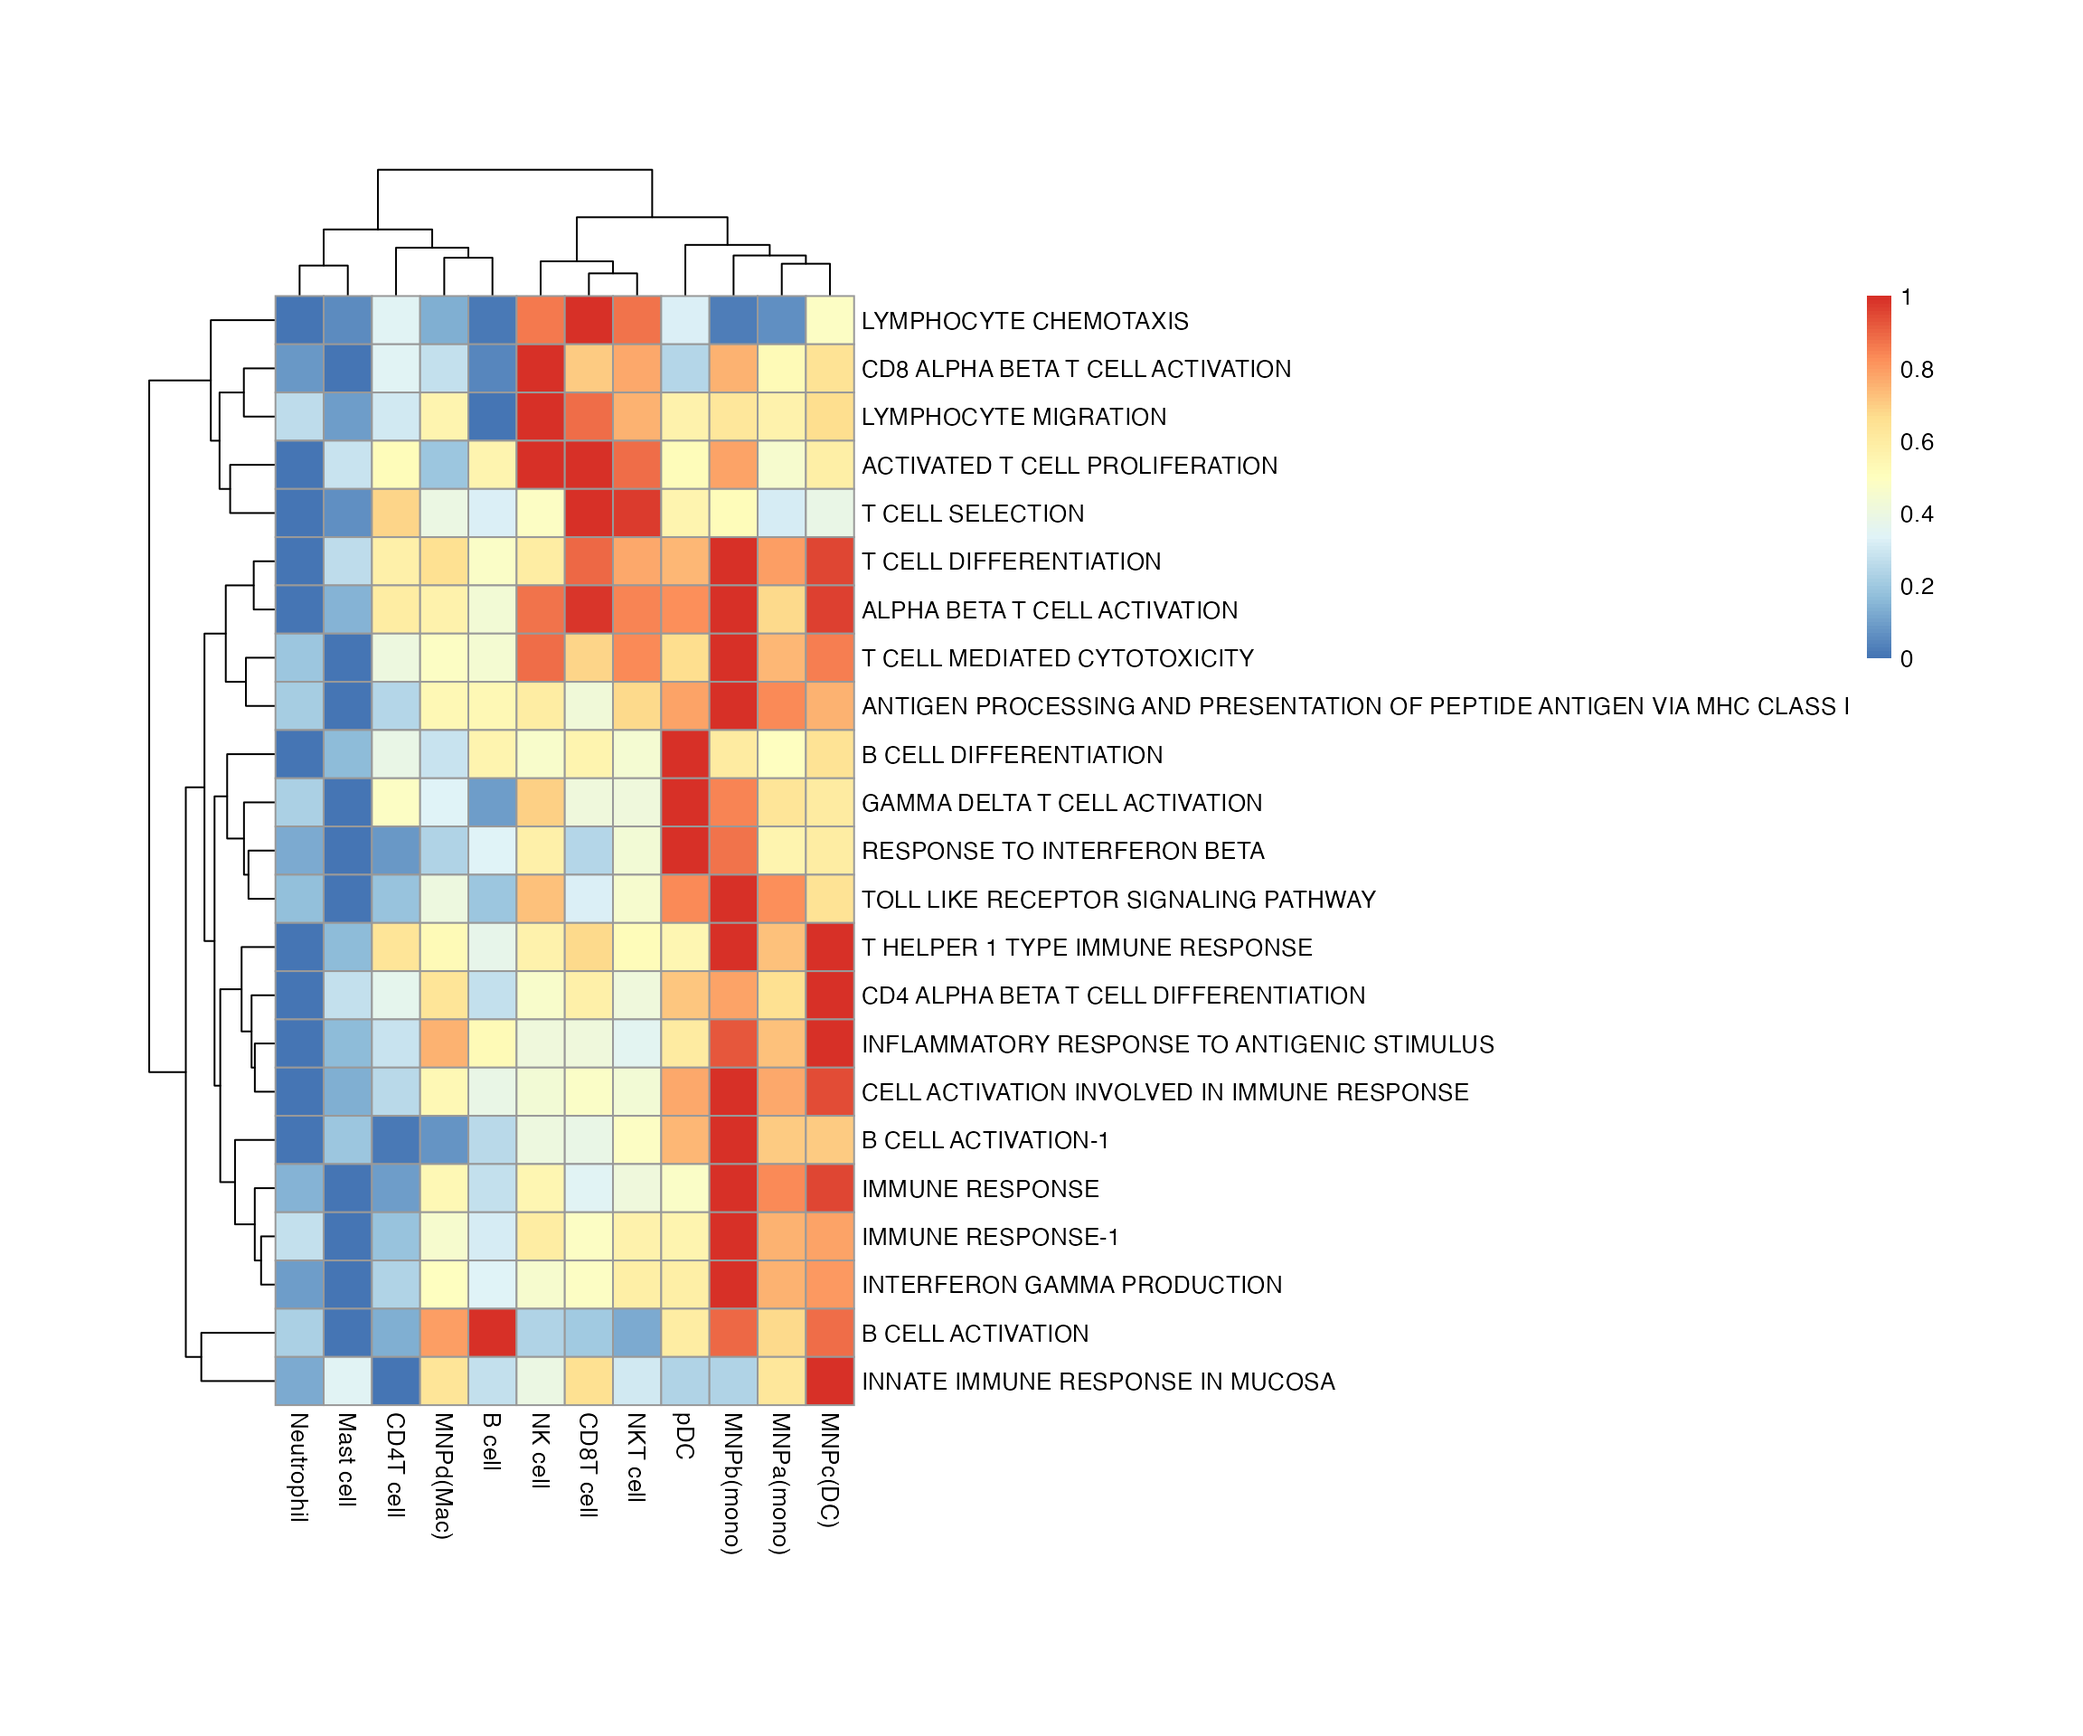
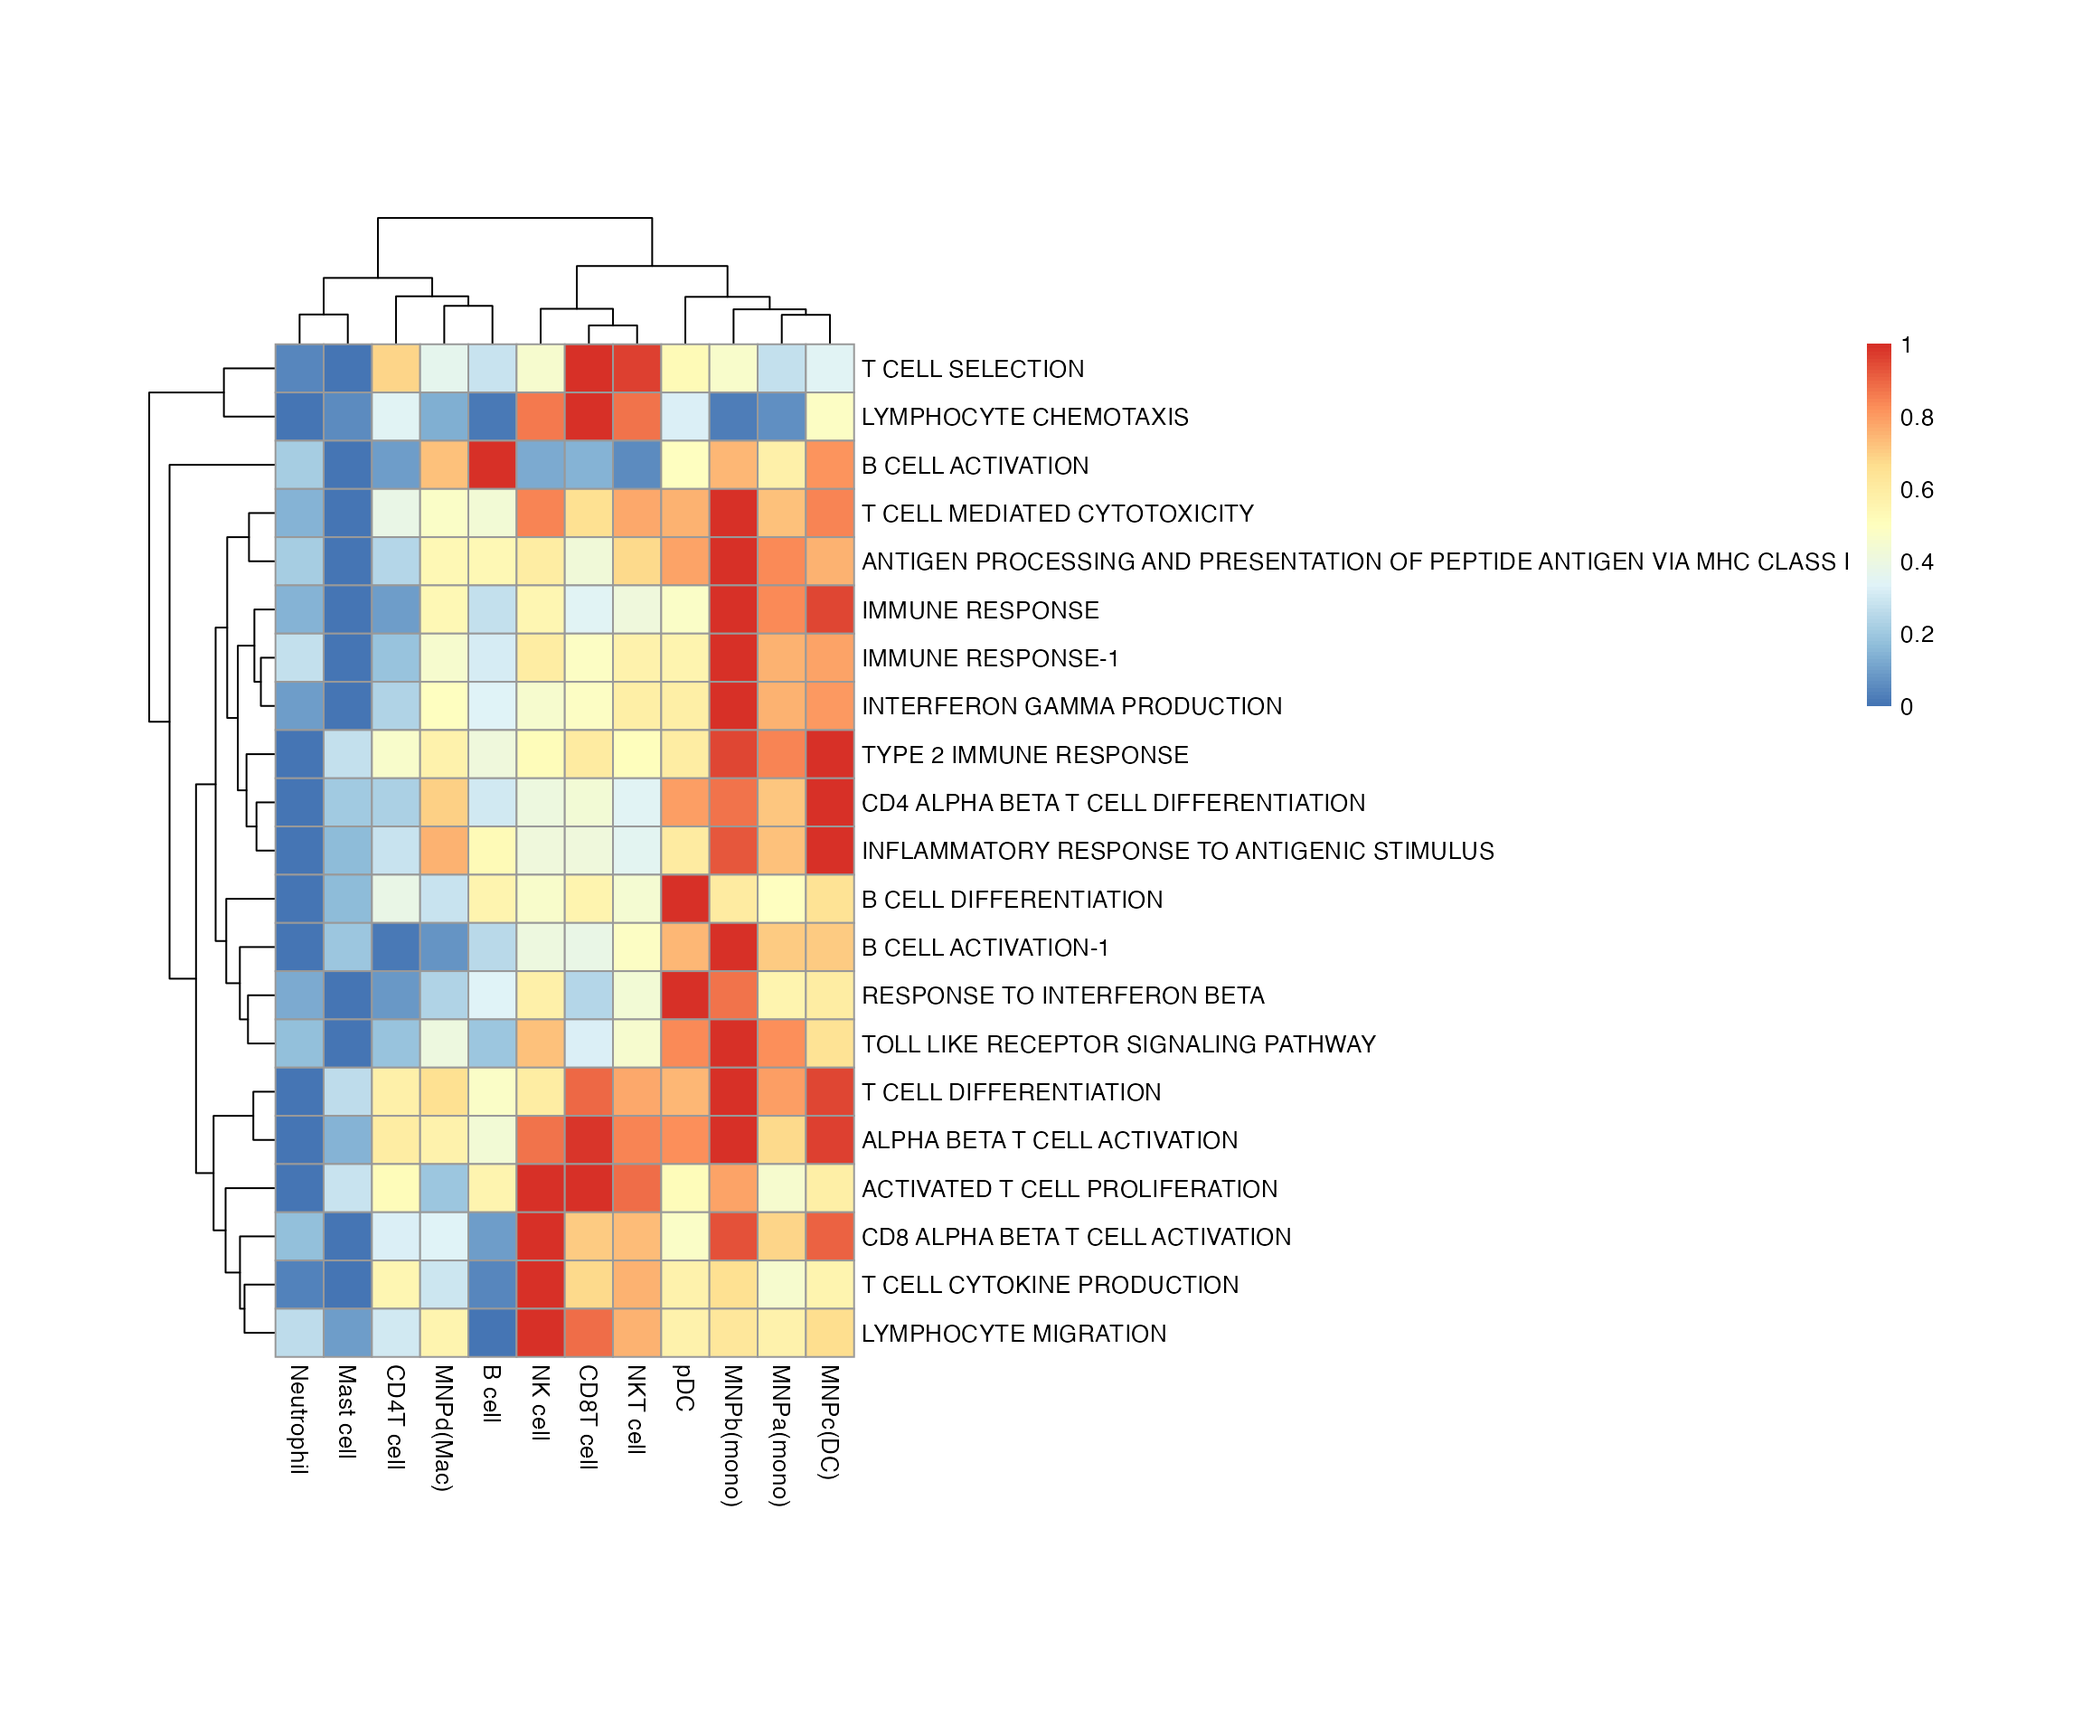
Built site for bowerbird: 0.0.2@eb0f37f

Changed region(s): [[0.0625, 0.125, 0.7188, 0.875], [0.6875, 0.1562, 0.9375, 0.4062]]

diff --git a/articles/bowerbird_vignette.html b/articles/bowerbird_vignette.html
@@ -160,12 +160,12 @@
 <span class="va">bwr</span> <span class="op">&lt;-</span> <span class="fu"><a href="../reference/snn_graph.html">snn_graph</a></span><span class="op">(</span><span class="va">bwr</span><span class="op">)</span>
 <span class="va">bwr</span> <span class="op">&lt;-</span> <span class="fu"><a href="../reference/find_clusters.html">find_clusters</a></span><span class="op">(</span><span class="va">bwr</span><span class="op">)</span>
 <span class="va">bwr</span> <span class="op">&lt;-</span> <span class="fu">summarize_clusters</span><span class="op">(</span><span class="va">bwr</span><span class="op">)</span>
-<span class="co">#&gt; Downloading udpipe model from https://raw.githubusercontent.com/jwijffels/udpipe.models.ud.2.5/master/inst/udpipe-ud-2.5-191206/english-ewt-ud-2.5-191206.udpipe to /var/folders/24/8k48jl6d249_n_qfxwsl6xvm0000gn/T//Rtmp68GPuW/english-ewt-ud-2.5-191206.udpipe</span>
+<span class="co">#&gt; Downloading udpipe model from https://raw.githubusercontent.com/jwijffels/udpipe.models.ud.2.5/master/inst/udpipe-ud-2.5-191206/english-ewt-ud-2.5-191206.udpipe to /var/folders/24/8k48jl6d249_n_qfxwsl6xvm0000gn/T//RtmpyVf97f/english-ewt-ud-2.5-191206.udpipe</span>
 <span class="co">#&gt;  - This model has been trained on version 2.5 of data from https://universaldependencies.org</span>
 <span class="co">#&gt;  - The model is distributed under the CC-BY-SA-NC license: https://creativecommons.org/licenses/by-nc-sa/4.0</span>
 <span class="co">#&gt;  - Visit https://github.com/jwijffels/udpipe.models.ud.2.5 for model license details.</span>
 <span class="co">#&gt;  - For a list of all models and their licenses (most models you can download with this package have either a CC-BY-SA or a CC-BY-SA-NC license) read the documentation at ?udpipe_download_model. For building your own models: visit the documentation by typing vignette('udpipe-train', package = 'udpipe')</span>
-<span class="co">#&gt; Downloading finished, model stored at '/var/folders/24/8k48jl6d249_n_qfxwsl6xvm0000gn/T//Rtmp68GPuW/english-ewt-ud-2.5-191206.udpipe'</span></code></pre></div>
+<span class="co">#&gt; Downloading finished, model stored at '/var/folders/24/8k48jl6d249_n_qfxwsl6xvm0000gn/T//RtmpyVf97f/english-ewt-ud-2.5-191206.udpipe'</span></code></pre></div>
 <p>Or extracting from <code>msigdbr</code>.</p>
 <div class="sourceCode" id="cb7"><pre class="downlit sourceCode r">
 <code class="sourceCode R"><span class="kw"><a href="https://rdrr.io/r/base/library.html">library</a></span><span class="op">(</span><span class="va"><a href="https://igordot.github.io/msigdbr/">msigdbr</a></span><span class="op">)</span>
@@ -181,54 +181,52 @@
 <span class="va">bwr</span> <span class="op">&lt;-</span> <span class="fu"><a href="../reference/snn_graph.html">snn_graph</a></span><span class="op">(</span><span class="va">bwr</span><span class="op">)</span>
 <span class="va">bwr</span> <span class="op">&lt;-</span> <span class="fu"><a href="../reference/find_clusters.html">find_clusters</a></span><span class="op">(</span><span class="va">bwr</span><span class="op">)</span>
 <span class="va">bwr</span> <span class="op">&lt;-</span> <span class="fu">summarize_clusters</span><span class="op">(</span><span class="va">bwr</span><span class="op">)</span>
-<span class="co">#&gt; Downloading udpipe model from https://raw.githubusercontent.com/jwijffels/udpipe.models.ud.2.5/master/inst/udpipe-ud-2.5-191206/english-ewt-ud-2.5-191206.udpipe to /var/folders/24/8k48jl6d249_n_qfxwsl6xvm0000gn/T//Rtmp68GPuW/english-ewt-ud-2.5-191206.udpipe</span>
+<span class="co">#&gt; Downloading udpipe model from https://raw.githubusercontent.com/jwijffels/udpipe.models.ud.2.5/master/inst/udpipe-ud-2.5-191206/english-ewt-ud-2.5-191206.udpipe to /var/folders/24/8k48jl6d249_n_qfxwsl6xvm0000gn/T//RtmpyVf97f/english-ewt-ud-2.5-191206.udpipe</span>
 <span class="co">#&gt;  - This model has been trained on version 2.5 of data from https://universaldependencies.org</span>
 <span class="co">#&gt;  - The model is distributed under the CC-BY-SA-NC license: https://creativecommons.org/licenses/by-nc-sa/4.0</span>
 <span class="co">#&gt;  - Visit https://github.com/jwijffels/udpipe.models.ud.2.5 for model license details.</span>
 <span class="co">#&gt;  - For a list of all models and their licenses (most models you can download with this package have either a CC-BY-SA or a CC-BY-SA-NC license) read the documentation at ?udpipe_download_model. For building your own models: visit the documentation by typing vignette('udpipe-train', package = 'udpipe')</span>
-<span class="co">#&gt; Downloading finished, model stored at '/var/folders/24/8k48jl6d249_n_qfxwsl6xvm0000gn/T//Rtmp68GPuW/english-ewt-ud-2.5-191206.udpipe'</span></code></pre></div>
+<span class="co">#&gt; Downloading finished, model stored at '/var/folders/24/8k48jl6d249_n_qfxwsl6xvm0000gn/T//RtmpyVf97f/english-ewt-ud-2.5-191206.udpipe'</span></code></pre></div>
 <p>So what has actually happened? Well, basically <code>bowerbird</code> has learnt which gene sets share more genes with each other, clustered them together and learnt a new summary term.</p>
 <div class="sourceCode" id="cb8"><pre class="downlit sourceCode r">
 <code class="sourceCode R"><span class="va">bwr</span>
 <span class="co">#&gt; BOWER class</span>
 <span class="co">#&gt; number of genesets:  265 </span>
 <span class="co">#&gt; genesets kNN Graph: </span>
-<span class="co">#&gt; IGRAPH d1d6538 UNW- 265 843 -- </span>
+<span class="co">#&gt; IGRAPH 7f118fe UNW- 265 843 -- </span>
 <span class="co">#&gt; + attr: name (v/c), cluster (v/n), geneset_size (v/n), terms (v/c),</span>
 <span class="co">#&gt; | labels (v/c), weight (e/n)</span>
-<span class="co">#&gt; + edges from d1d6538 (vertex names):</span>
+<span class="co">#&gt; + edges from 7f118fe (vertex names):</span>
 <span class="co">#&gt; [1] GOBP_ACTIVATED_T_CELL_PROLIFERATION--GOBP_CD8_POSITIVE_ALPHA_BETA_T_CELL_DIFFERENTIATION          </span>
 <span class="co">#&gt; [2] GOBP_ACTIVATED_T_CELL_PROLIFERATION--GOBP_NEGATIVE_REGULATION_OF_ACTIVATED_T_CELL_PROLIFERATION   </span>
 <span class="co">#&gt; [3] GOBP_ACTIVATED_T_CELL_PROLIFERATION--GOBP_NEGATIVE_REGULATION_OF_LYMPHOCYTE_DIFFERENTIATION       </span>
 <span class="co">#&gt; [4] GOBP_ACTIVATED_T_CELL_PROLIFERATION--GOBP_NEGATIVE_REGULATION_OF_T_CELL_RECEPTOR_SIGNALING_PATHWAY</span>
 <span class="co">#&gt; [5] GOBP_ACTIVATION_OF_IMMUNE_RESPONSE --GOBP_ACTIVATION_OF_INNATE_IMMUNE_RESPONSE                    </span>
 <span class="co">#&gt; + ... omitted several edges</span>
-<span class="co">#&gt; number of geneset clusters:  23 </span>
+<span class="co">#&gt; number of geneset clusters:  21 </span>
 <span class="co">#&gt; Core genes:</span>
 <span class="co">#&gt;  First six genes shown</span>
-<span class="co">#&gt;   CD8 ALPHA BETA T CELL ACTIVATION : HLA-E FCGR2B IL20RB GATA3 ADCYAP1 BTK </span>
-<span class="co">#&gt;   IMMUNE RESPONSE-1 : AIM2 BCL10 BTRC CARD11 CARD9 CD209 </span>
-<span class="co">#&gt;   IMMUNE RESPONSE : CLNK HLA-E HLA-F IFNA2 IFNB1 IL18 </span>
-<span class="co">#&gt;   B CELL ACTIVATION-1 : ADA BAX BCL6 BLK BTK CD74 </span>
-<span class="co">#&gt;   RESPONSE TO INTERFERON BETA : BCL2L11 HIF1A MEF2C ADA SOS1 SOS2 </span>
-<span class="co">#&gt;   T CELL MEDIATED CYTOTOXICITY : HLA-A HLA-B HLA-C HLA-E HLA-F HLA-G </span>
-<span class="co">#&gt;   CD4 ALPHA BETA T CELL DIFFERENTIATION : ANXA1 ATP7A BATF BCL3 BCL6 CBFB </span>
-<span class="co">#&gt;   T CELL DIFFERENTIATION : FCGR2B FGL2 HLA-DOA LILRB2 THBS1 BMP4 </span>
-<span class="co">#&gt;   INTERFERON GAMMA PRODUCTION : ABCB9 ACE ACTR10 ACTR1A ACTR1B AP1B1 </span>
-<span class="co">#&gt;   T HELPER 1 TYPE IMMUNE RESPONSE : BATF FOXP3 IL6 TBX21 BCL6 IL2 </span>
-<span class="co">#&gt;   TOLL LIKE RECEPTOR SIGNALING PATHWAY : CACTIN PTPRS TICAM1 TLR3 TLR4 TLR9 </span>
-<span class="co">#&gt;   B CELL DIFFERENTIATION : IL10 TLR9 SYK ADA BCL3 C17orf99 </span>
-<span class="co">#&gt;   ACTIVATED T CELL PROLIFERATION : LILRB4 CD24 CD274 FYN HHLA2 ICOSLG </span>
-<span class="co">#&gt;   B CELL ACTIVATION : ADA ADAM17 BATF BCL3 BCL6 BTK </span>
-<span class="co">#&gt;   LYMPHOCYTE CHEMOTAXIS : CCL2 CCL3 CCL4 CCL5 CCL7 CXCL14 </span>
-<span class="co">#&gt;   ALPHA BETA T CELL ACTIVATION : AGER ANXA1 ARG2 ATP7A BATF BCL3 </span>
-<span class="co">#&gt;   INFLAMMATORY RESPONSE TO ANTIGENIC STIMULUS : BTK C3 CD28 HLA-E LTA NOD2 </span>
-<span class="co">#&gt;   INNATE IMMUNE RESPONSE IN MUCOSA : IL18 IL18R1 IL4 IL13 IL4R SYK </span>
-<span class="co">#&gt;   T CELL SELECTION : PTPRC TOX RABL3 STAT5B ZBTB1 IL15 </span>
-<span class="co">#&gt;   GAMMA DELTA T CELL ACTIVATION : LILRB1 KLRC1 PTPRC EGR3 LEF1 NCKAP1L </span>
-<span class="co">#&gt;   ANTIGEN PROCESSING AND PRESENTATION OF PEPTIDE ANTIGEN VIA MHC CLASS I : ABCB9 AZGP1 B2M ERAP1 ERAP2 HFE </span>
-<span class="co">#&gt;   LYMPHOCYTE MIGRATION : ADAM10 ADAM17 ADAM8 AIF1 APP CCL20 </span>
-<span class="co">#&gt;   CELL ACTIVATION INVOLVED IN IMMUNE RESPONSE : ABL1 ADA ANXA1 AP1G1 APBB1IP ATP7A</span></code></pre></div>
+<span class="co">#&gt;   IMMUNE RESPONSE-1 : AIM2 BCL10 BTRC CARD11 CARD9 CD209 ...</span>
+<span class="co">#&gt;   CD4 ALPHA BETA T CELL DIFFERENTIATION : ANXA1 ATP7A BATF BCL3 BCL6 CBFB ...</span>
+<span class="co">#&gt;   TYPE 2 IMMUNE RESPONSE : IL4 PLCL2 TLR4 IL18 IL18R1 IL4R ...</span>
+<span class="co">#&gt;   IMMUNE RESPONSE : CLNK HLA-E HLA-F IFNA2 IFNB1 IL18 ...</span>
+<span class="co">#&gt;   RESPONSE TO INTERFERON BETA : BCL2L11 HIF1A MEF2C ADA SOS1 SOS2 ...</span>
+<span class="co">#&gt;   T CELL MEDIATED CYTOTOXICITY : HLA-A HLA-B HLA-C HLA-E HLA-F HLA-G ...</span>
+<span class="co">#&gt;   B CELL ACTIVATION-1 : ADA BAX BCL6 BLK BTK CD74 ...</span>
+<span class="co">#&gt;   CD8 ALPHA BETA T CELL ACTIVATION : HLA-E GATA3 ADCYAP1 BTK C3 CCR7 ...</span>
+<span class="co">#&gt;   T CELL DIFFERENTIATION : FCGR2B FGL2 HLA-DOA LILRB2 THBS1 BMP4 ...</span>
+<span class="co">#&gt;   INTERFERON GAMMA PRODUCTION : ABCB9 ACE ACTR10 ACTR1A ACTR1B AP1B1 ...</span>
+<span class="co">#&gt;   TOLL LIKE RECEPTOR SIGNALING PATHWAY : CACTIN PTPRS TICAM1 TLR3 TLR4 TLR9 ...</span>
+<span class="co">#&gt;   T CELL CYTOKINE PRODUCTION : KLRC1 LILRB1 NOD2 PTPRC EGR3 LEF1 ...</span>
+<span class="co">#&gt;   B CELL DIFFERENTIATION : IL10 TLR9 SYK ADA BCL3 C17orf99 ...</span>
+<span class="co">#&gt;   T CELL SELECTION : TOX BCL2 BATF CTSL FOXP3 IL12B ...</span>
+<span class="co">#&gt;   ACTIVATED T CELL PROLIFERATION : LILRB4 CD24 CD274 FYN HHLA2 ICOSLG ...</span>
+<span class="co">#&gt;   LYMPHOCYTE CHEMOTAXIS : CCL2 CCL3 CCL4 CCL5 CCL7 CXCL14 ...</span>
+<span class="co">#&gt;   B CELL ACTIVATION : BATF BCL3 BCL6 BTK C17orf99 CCR6 ...</span>
+<span class="co">#&gt;   ALPHA BETA T CELL ACTIVATION : AGER ANXA1 ARG2 ATP7A BATF BCL3 ...</span>
+<span class="co">#&gt;   INFLAMMATORY RESPONSE TO ANTIGENIC STIMULUS : BTK C3 CD28 HLA-E LTA NOD2 ...</span>
+<span class="co">#&gt;   ANTIGEN PROCESSING AND PRESENTATION OF PEPTIDE ANTIGEN VIA MHC CLASS I : ABCB9 AZGP1 B2M ERAP1 ERAP2 HFE ...</span>
+<span class="co">#&gt;   LYMPHOCYTE MIGRATION : ADAM10 ADAM17 ADAM8 AIF1 APP CCL20 ...</span></code></pre></div>
 <p>We can visualise it with a simple plot</p>
 <div class="sourceCode" id="cb9"><pre class="downlit sourceCode r">
 <code class="sourceCode R"><span class="fu"><a href="../reference/plot_graph.html">plot_graph</a></span><span class="op">(</span><span class="va">bwr</span>, colorby <span class="op">=</span> <span class="st">'cluster'</span>, node.size <span class="op">=</span> <span class="st">'geneset_size'</span><span class="op">)</span></code></pre></div>
